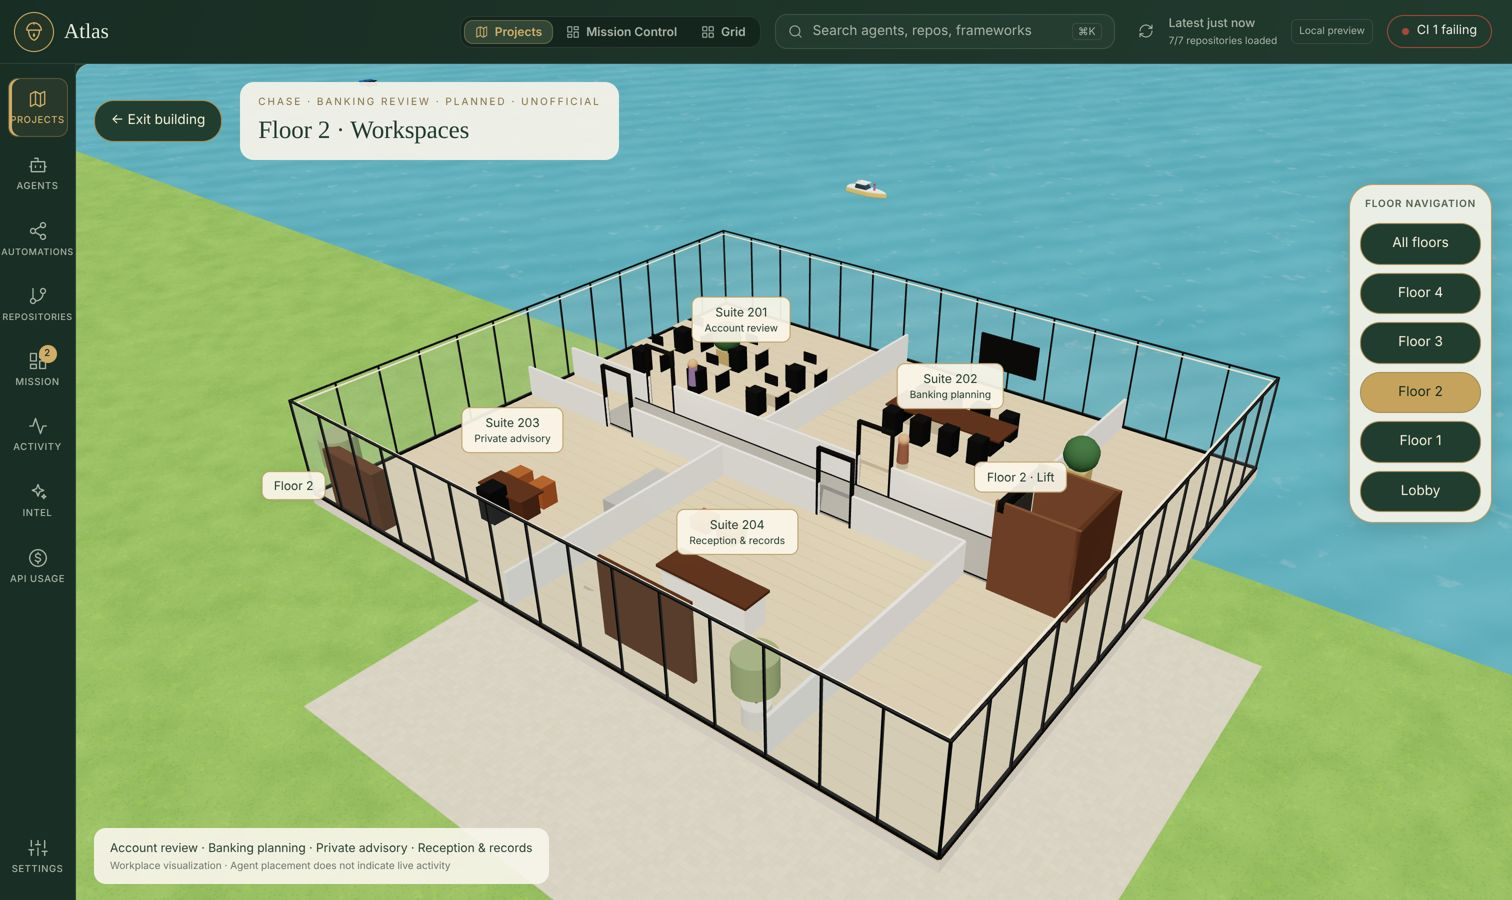
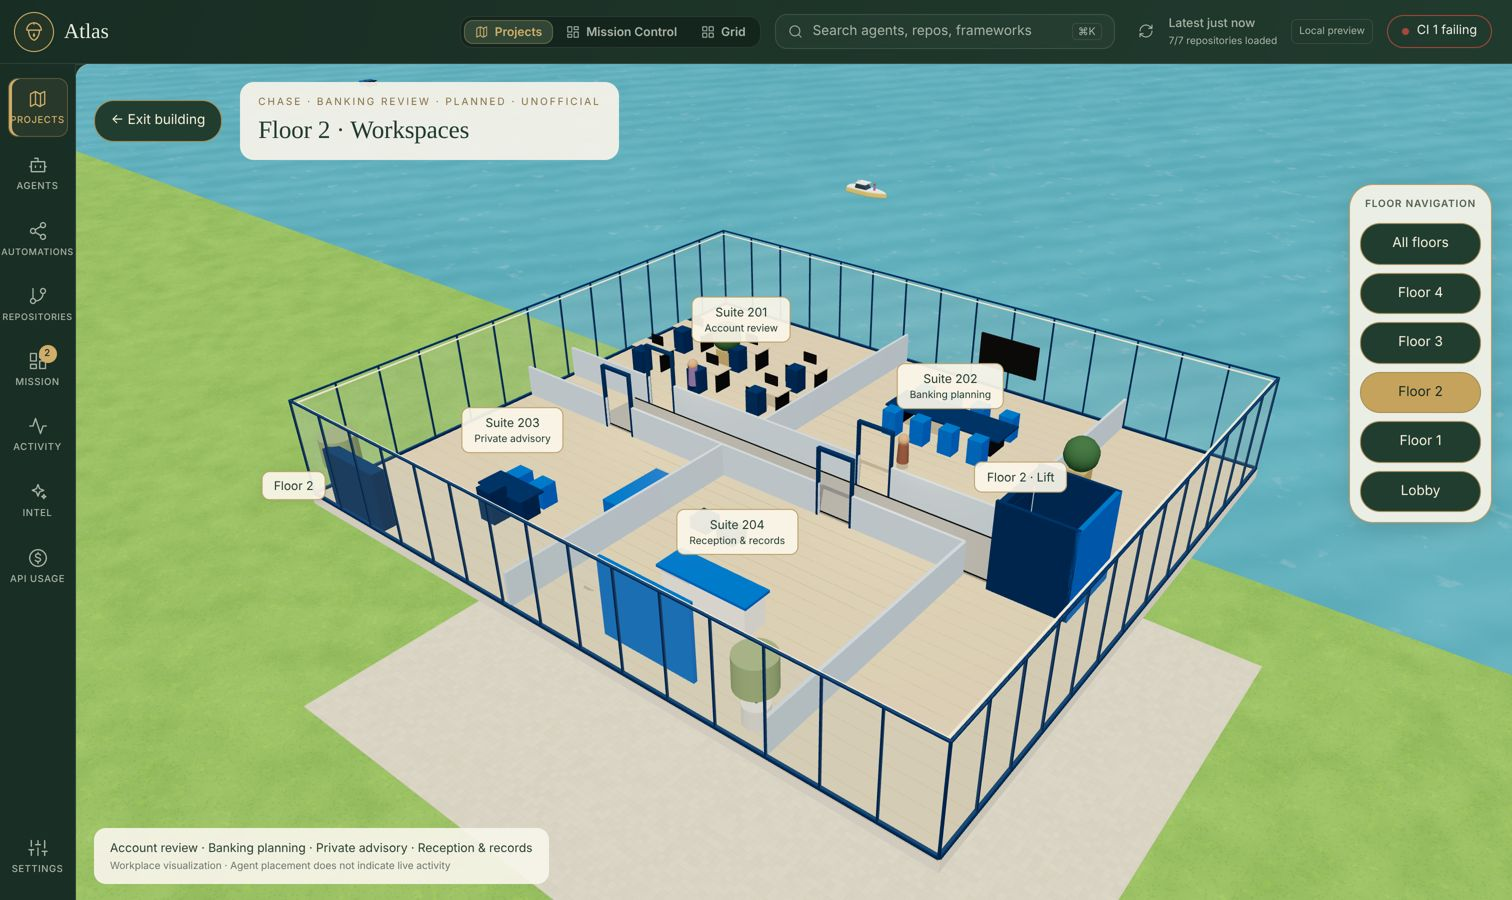
Financial District screenshots in brand colours; shot spec opens the district's Wells Fargo
Claude-Session: https://claude.ai/code/session_01FS1cYN9Ky32bPd7MnW1b4z

diff --git a/visual/financial-interiors.visual.ts b/visual/financial-interiors.visual.ts
@@ -3,10 +3,12 @@ import {test} from '@playwright/test';import {mkdirSync} from 'node:fs';import {
 test.skip(!process.env.FINANCIAL_SHOTS,'Set FINANCIAL_SHOTS=1 to take Financial District interior screenshots.');
 const dir=process.env.FINANCIAL_SHOT_DIR??'artifacts/financial-interiors';
 const BUILDINGS=['Chase','Robinhood','Navy Federal Credit Union','Experian','The Ritz-Carlton','Wells Fargo','Vanguard','American Express','Benjaire Finance'];
+/** Financial District interior keys (financialInteriorKey); "Wells Fargo" alone opens the Skyline branch, not the tower. */
+const KEY:Record<string,string>={Chase:'banks',Robinhood:'investments','Navy Federal Credit Union':'insurance',Experian:'residence','The Ritz-Carlton':'harbor-residence','Wells Fargo':'records',Vanguard:'financial-planning','American Express':'budget','Benjaire Finance':'business-finance'};
 const FLOORS:[string,RegExp][]=[['lobby',/^Lobby$/],['floor2',/^Floor 2$/],['all',/^All floors$/]];
 const slug=(s:string)=>s.toLowerCase().replace(/[^a-z0-9]+/g,'-');
 async function shoot(page:import('@playwright/test').Page,b:string,suffix:string,floors=FLOORS){
- await page.evaluate(async(b)=>{const m=await import('/src/views/office/store.ts' as string);m.enterBuilding(`skyline-business:${b}`,true);},b);
+ await page.evaluate(async(b)=>{const m=await import('/src/views/office/store.ts' as string);m.enterBuilding(b,true);},`skyline-business:financial:${KEY[b]}`);
  await settle(page,4);
  for(const [name,label] of floors){await page.getByRole('button',{name:label}).click();for(let i=0;i<6;i++){await page.waitForTimeout(300);await settle(page,2);}await page.screenshot({path:`${dir}/${slug(b)}-${name}-${suffix}.png`});}
 }
